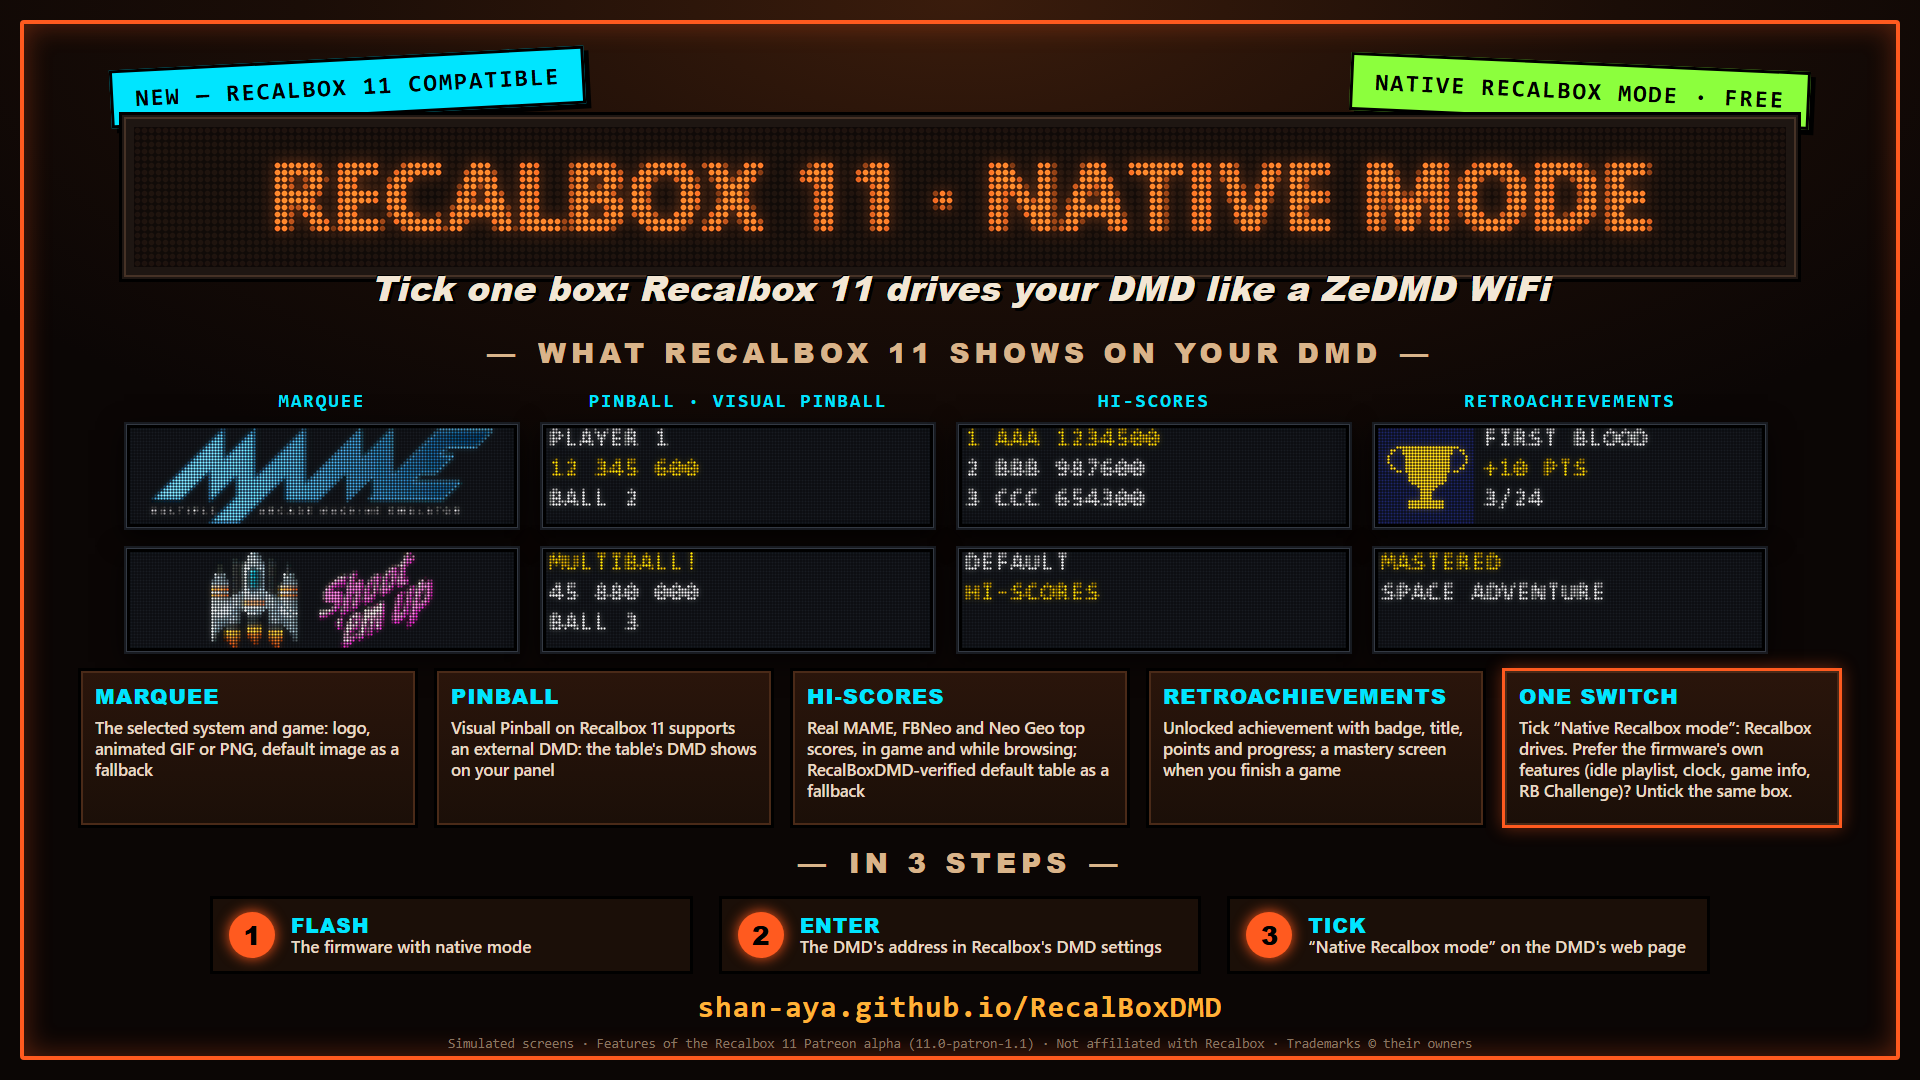
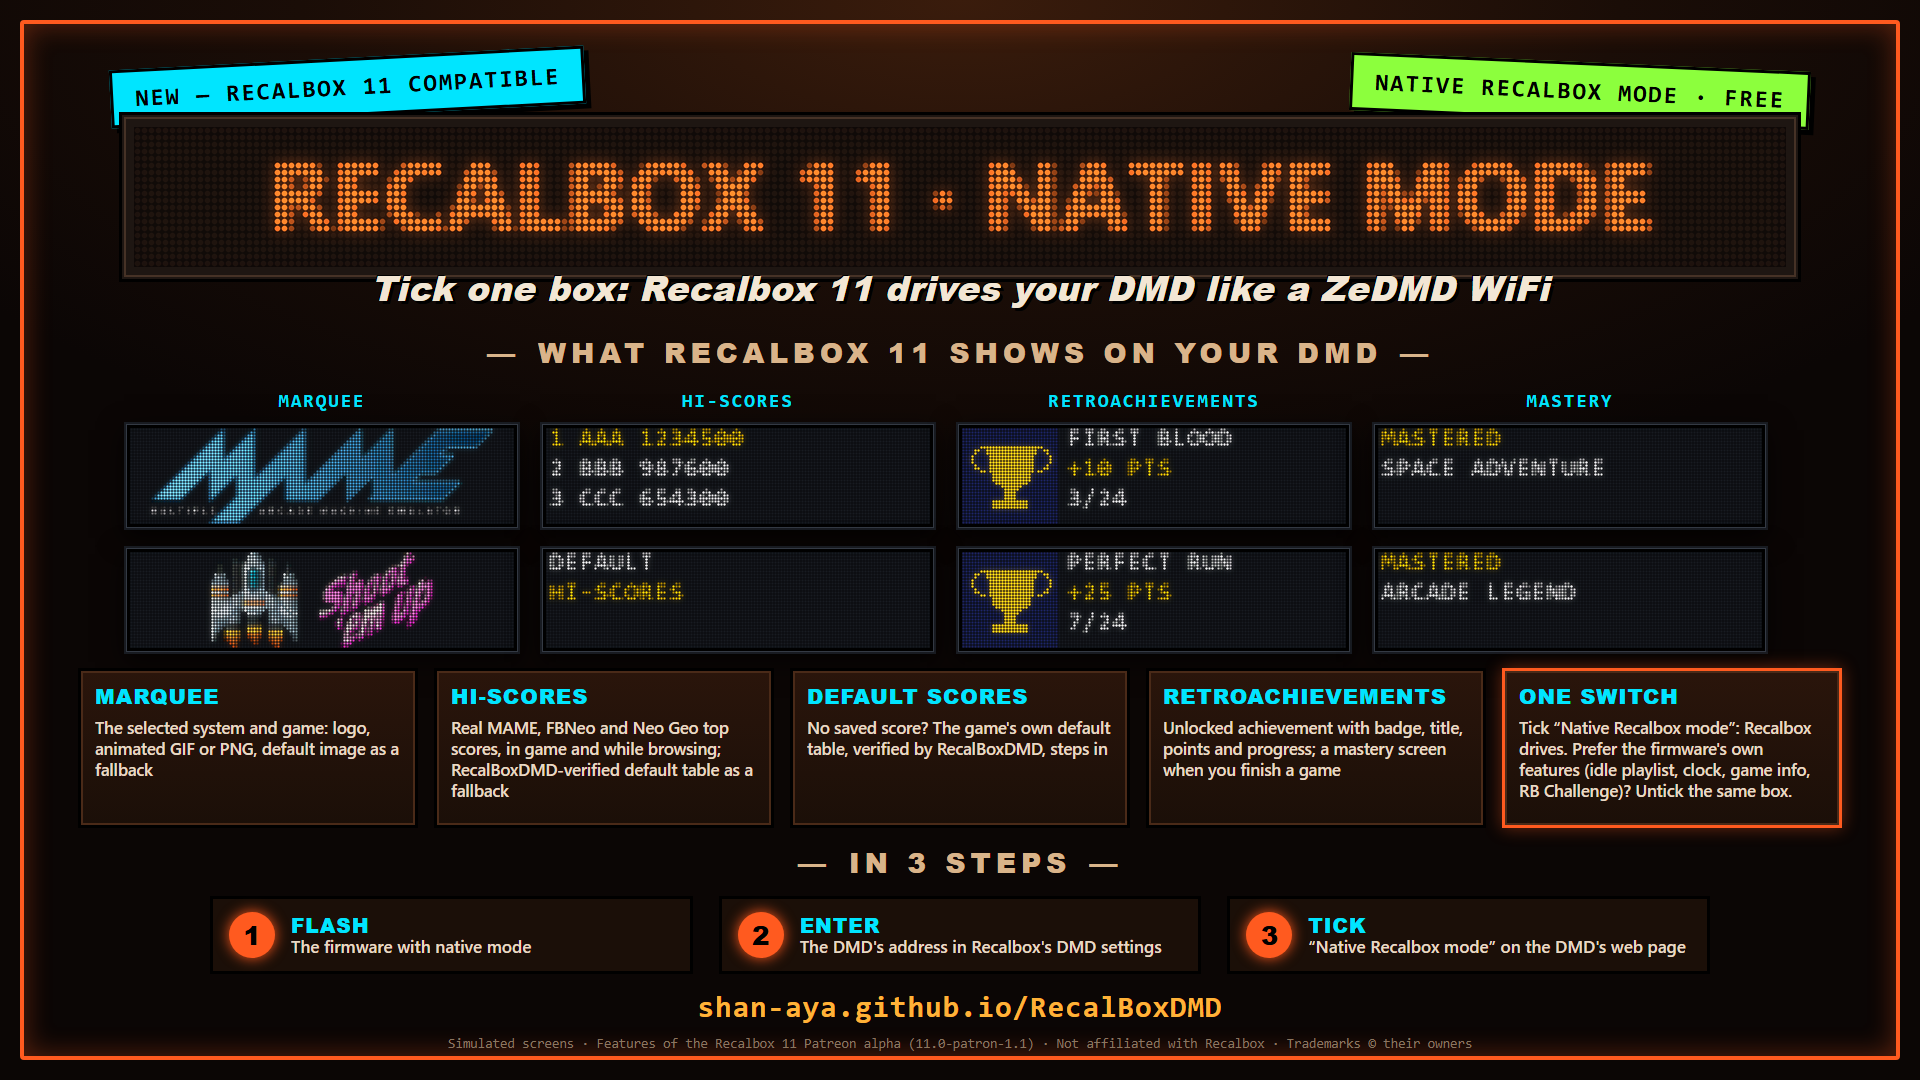
Page d'accueil + plaquette 7 : retrait de Visual Pinball (a tester en mode natif via ZeDMD), remplace par la maitrise RetroAchievements ; NON POUSSE

diff --git a/docs/index.html b/docs/index.html
@@ -543,19 +543,19 @@ footer.outro .support{margin-top:18px;font-size:15px}footer.outro .support a{col
         <figcaption data-i18n="cap.native1">Marquee du système et du jeu</figcaption>
       </figure>
       <figure class="shot glow-b">
-        <img src="media/native/pinball.png" data-i18n-alt="alt.native" alt="Écran simulé du panneau 128×32.">
-        <figcaption data-i18n="cap.native2">Table Visual Pinball</figcaption>
-      </figure>
-      <figure class="shot glow-b">
         <img src="media/native/hiscores.png" data-i18n-alt="alt.native" alt="Écran simulé du panneau 128×32.">
-        <figcaption data-i18n="cap.native3">Meilleurs scores</figcaption>
+        <figcaption data-i18n="cap.native2">Meilleurs scores</figcaption>
       </figure>
       <figure class="shot glow-b">
         <img src="media/native/achievement.png" data-i18n-alt="alt.native" alt="Écran simulé du panneau 128×32.">
-        <figcaption data-i18n="cap.native4">Succès RetroAchievements</figcaption>
+        <figcaption data-i18n="cap.native3">Succès RetroAchievements</figcaption>
+      </figure>
+      <figure class="shot glow-b">
+        <img src="media/native/mastery.png" data-i18n-alt="alt.native" alt="Écran simulé du panneau 128×32.">
+        <figcaption data-i18n="cap.native4">Maîtrise d'un jeu</figcaption>
       </figure>
     </div>
-    <p data-i18n="s5d.p2" style="margin-top:14px">Ce que Recalbox 11 y affiche : le marquee du système et du jeu sélectionnés (logo, GIF animé ou PNG) ; l'écran des tables Visual Pinball, grâce au DMD externe pris en charge ; les meilleurs scores des jeux d'arcade MAME, FBNeo et Neo Geo, par pages de trois, avec la table d'origine du jeu vérifiée par RecalBoxDMD quand aucun score n'est sauvegardé ; et les succès RetroAchievements (badge, titre, points, progression, écran de maîtrise).</p>
+    <p data-i18n="s5d.p2" style="margin-top:14px">Ce que Recalbox 11 y affiche : le marquee du système et du jeu sélectionnés (logo, GIF animé ou PNG) ; les meilleurs scores des jeux d'arcade MAME, FBNeo et Neo Geo, par pages de trois, avec la table d'origine du jeu vérifiée par RecalBoxDMD quand aucun score n'est sauvegardé ; et les succès RetroAchievements (badge, titre, points, progression, écran de maîtrise).</p>
     <p data-i18n="s5d.p3" style="margin-top:14px">Une seule case, dans les deux sens. Le mode natif remplace les fonctions propres du firmware ; si vous préférez les garder — playlist de veille en GIF, horloge à thèmes, fiches infos des jeux, RB Challenge, commandes par scripts — décochez simplement la même case : tout revient comme vous l'aviez réglé.</p>
     <p data-i18n="s5d.p4" style="margin-top:14px">Pour l'activer : 1. flashez le firmware avec le mode natif ; 2. dans Recalbox, renseignez l'adresse du DMD dans les réglages DMD (ZeDMD WiFi) — donnez une IP fixe à votre DMD pour qu'elle ne change pas ; 3. cochez « Mode Recalbox natif » dans la page web du DMD et redémarrez.</p>
     <p data-i18n="s5d.p5" style="opacity:.7;font-size:.9em;margin-top:14px">Hi-scores et RetroAchievements : fonctions de la Recalbox 11 alpha Patreon (11.0-patron-1.1). Écrans simulés d'après la mise en page de Recalbox 11.</p>
@@ -668,14 +668,14 @@ footer.outro .support{margin-top:18px;font-size:15px}footer.outro .support a{col
       "s5d.eyebrow": "Recalbox 11",
       "s5d.h2": "Prêt pour Recalbox 11 : le mode natif du firmware",
       "s5d.p1": "Recalbox 11 sait piloter lui-même un afficheur DMD, ZeDMD en USB ou en Wi-Fi compris. Le firmware du panneau sait s'y brancher : cochez « Mode Recalbox natif » dans la page web du panneau, et votre DMD se comporte comme un ZeDMD WiFi — c'est Recalbox qui décide de tout ce qui s'affiche.",
-      "s5d.p2": "Ce que Recalbox 11 y affiche : le marquee du système et du jeu sélectionnés (logo, GIF animé ou PNG) ; l'écran des tables Visual Pinball, grâce au DMD externe pris en charge ; les meilleurs scores des jeux d'arcade MAME, FBNeo et Neo Geo, par pages de trois, avec la table d'origine du jeu vérifiée par RecalBoxDMD quand aucun score n'est sauvegardé ; et les succès RetroAchievements (badge, titre, points, progression, écran de maîtrise).",
+      "s5d.p2": "Ce que Recalbox 11 y affiche : le marquee du système et du jeu sélectionnés (logo, GIF animé ou PNG) ; les meilleurs scores des jeux d'arcade MAME, FBNeo et Neo Geo, par pages de trois, avec la table d'origine du jeu vérifiée par RecalBoxDMD quand aucun score n'est sauvegardé ; et les succès RetroAchievements (badge, titre, points, progression, écran de maîtrise).",
       "s5d.p3": "Une seule case, dans les deux sens. Le mode natif remplace les fonctions propres du firmware ; si vous préférez les garder — playlist de veille en GIF, horloge à thèmes, fiches infos des jeux, RB Challenge, commandes par scripts — décochez simplement la même case : tout revient comme vous l'aviez réglé.",
       "s5d.p4": "Pour l'activer : 1. flashez le firmware avec le mode natif ; 2. dans Recalbox, renseignez l'adresse du DMD dans les réglages DMD (ZeDMD WiFi) — donnez une IP fixe à votre DMD pour qu'elle ne change pas ; 3. cochez « Mode Recalbox natif » dans la page web du DMD et redémarrez.",
       "s5d.p5": "Hi-scores et RetroAchievements : fonctions de la Recalbox 11 alpha Patreon (11.0-patron-1.1). Écrans simulés d'après la mise en page de Recalbox 11.",
       "cap.native1": "Marquee du système et du jeu",
-      "cap.native2": "Table Visual Pinball",
-      "cap.native3": "Meilleurs scores",
-      "cap.native4": "Succès RetroAchievements",
+      "cap.native2": "Meilleurs scores",
+      "cap.native3": "Succès RetroAchievements",
+      "cap.native4": "Maîtrise d'un jeu",
       "alt.native": "Écran simulé du panneau 128×32.",
       "cap.marqueehiscore": "Marquee + Hi-Score", "cap.infosjeu": "Fiche du jeu", "cap.shuffle": "Navigation rapide", "cap.challenge": "Challenge RB",
       "s5b.eyebrow": "Visual Pinball", "s5b.h2": "Vos flippers virtuels s'affichent aussi sur le DMD", "s5b.p": "Lancez une table Visual Pinball depuis votre Recalbox : le DMD affiche en direct l'écran de la table, comme un vrai afficheur de flipper — puis reprend tout seul son marquee habituel à la fin de la partie. Sans redémarrage, activable d'un simple interrupteur dans la page web du panneau. Les tables colorisées (Serum) s'affichent en couleur, les autres gardent le rendu monochrome classique.", "cap.vpinballcolor": "Table colorisée (Serum) — AC/DC, en attente puis en jeu", "cap.vpinballmono": "Rendu classique monochrome — Indiana Jones Pinball Adventure, en attente puis en jeu",
@@ -747,14 +747,14 @@ footer.outro .support{margin-top:18px;font-size:15px}footer.outro .support a{col
       "s5d.eyebrow": "Recalbox 11",
       "s5d.h2": "Ready for Recalbox 11: the firmware's native mode",
       "s5d.p1": "Recalbox 11 can drive a DMD display by itself, ZeDMD over USB or Wi-Fi included. The panel's firmware knows how to plug into it: tick “Native Recalbox mode” on the panel's web page and your DMD behaves like a ZeDMD WiFi — Recalbox decides everything that is shown.",
-      "s5d.p2": "What Recalbox 11 shows on it: the marquee of the selected system and game (logo, animated GIF or PNG); the screen of Visual Pinball tables, thanks to the supported external DMD; the top scores of MAME, FBNeo and Neo Geo arcade games, in pages of three, with the game's default table verified by RecalBoxDMD when no score is saved; and RetroAchievements unlocks (badge, title, points, progress, mastery screen).",
+      "s5d.p2": "What Recalbox 11 shows on it: the marquee of the selected system and game (logo, animated GIF or PNG); the top scores of MAME, FBNeo and Neo Geo arcade games, in pages of three, with the game's default table verified by RecalBoxDMD when no score is saved; and RetroAchievements unlocks (badge, title, points, progress, mastery screen).",
       "s5d.p3": "One box, both ways. Native mode replaces the firmware's own features; if you'd rather keep them — idle GIF playlist, themed clock, game info screens, RB Challenge, script commands — just untick the same box: everything comes back as you had set it.",
       "s5d.p4": "To turn it on: 1. flash the firmware with native mode; 2. in Recalbox, enter the DMD's address in the DMD settings (ZeDMD WiFi) — give your DMD a fixed IP so it doesn't change; 3. tick “Native Recalbox mode” on the DMD's web page and reboot.",
       "s5d.p5": "Hi-scores and RetroAchievements: features of the Recalbox 11 Patreon alpha (11.0-patron-1.1). Screens simulated after Recalbox 11's layout.",
       "cap.native1": "System and game marquee",
-      "cap.native2": "Visual Pinball table",
-      "cap.native3": "Top scores",
-      "cap.native4": "RetroAchievements unlock",
+      "cap.native2": "Top scores",
+      "cap.native3": "RetroAchievements unlock",
+      "cap.native4": "Game mastery",
       "alt.native": "Simulated 128×32 panel screen.",
       "cap.marqueehiscore": "Marquee + Hi-Score", "cap.infosjeu": "Game info", "cap.shuffle": "Fast scroll", "cap.challenge": "RB Challenge",
       "s5b.eyebrow": "Visual Pinball", "s5b.h2": "Your virtual pinball tables show up on the DMD too", "s5b.p": "Launch a Visual Pinball table from your Recalbox: the DMD shows the table's screen live, like a real pinball display — then goes back to its usual marquee by itself when the game ends. No reboot, enabled with a single switch in the panel's web page. Colorized (Serum) tables show in color; the others keep the classic monochrome look.", "cap.vpinballcolor": "Colorized table (Serum) — AC/DC, idle then in play", "cap.vpinballmono": "Classic monochrome look — Indiana Jones Pinball Adventure, idle then in play",
@@ -826,14 +826,14 @@ footer.outro .support{margin-top:18px;font-size:15px}footer.outro .support a{col
       "s5d.eyebrow": "Recalbox 11",
       "s5d.h2": "Listo para Recalbox 11: el modo nativo del firmware",
       "s5d.p1": "Recalbox 11 sabe manejar por sí mismo una pantalla DMD, ZeDMD por USB o Wi-Fi incluido. El firmware del panel sabe conectarse a él: marca «Modo Recalbox nativo» en la página web del panel y tu DMD se comporta como un ZeDMD WiFi — Recalbox decide todo lo que se muestra.",
-      "s5d.p2": "Lo que Recalbox 11 muestra en él: el marquee del sistema y del juego seleccionados (logo, GIF animado o PNG); la pantalla de las mesas de Visual Pinball, gracias al DMD externo admitido; las mejores puntuaciones de los juegos de arcade MAME, FBNeo y Neo Geo, en páginas de tres, con la tabla de origen del juego verificada por RecalBoxDMD cuando no hay ninguna puntuación guardada; y los logros de RetroAchievements (insignia, título, puntos, progreso, pantalla de maestría).",
+      "s5d.p2": "Lo que Recalbox 11 muestra en él: el marquee del sistema y del juego seleccionados (logo, GIF animado o PNG); las mejores puntuaciones de los juegos de arcade MAME, FBNeo y Neo Geo, en páginas de tres, con la tabla de origen del juego verificada por RecalBoxDMD cuando no hay ninguna puntuación guardada; y los logros de RetroAchievements (insignia, título, puntos, progreso, pantalla de maestría).",
       "s5d.p3": "Una sola casilla, en los dos sentidos. El modo nativo sustituye las funciones propias del firmware; si prefieres conservarlas — playlist de espera en GIF, reloj con temas, fichas de información de los juegos, RB Challenge, comandos por scripts — desmarca simplemente la misma casilla: todo vuelve como lo habías configurado.",
       "s5d.p4": "Para activarlo: 1. flashea el firmware con modo nativo; 2. en Recalbox, indica la dirección del DMD en los ajustes DMD (ZeDMD WiFi) — dale una IP fija a tu DMD para que no cambie; 3. marca «Modo Recalbox nativo» en la página web del DMD y reinicia.",
       "s5d.p5": "Hi-scores y RetroAchievements: funciones de la Recalbox 11 alfa Patreon (11.0-patron-1.1). Pantallas simuladas según el diseño de Recalbox 11.",
       "cap.native1": "Marquee del sistema y del juego",
-      "cap.native2": "Mesa de Visual Pinball",
-      "cap.native3": "Mejores puntuaciones",
-      "cap.native4": "Logro de RetroAchievements",
+      "cap.native2": "Mejores puntuaciones",
+      "cap.native3": "Logro de RetroAchievements",
+      "cap.native4": "Maestría de un juego",
       "alt.native": "Pantalla simulada del panel 128×32.",
       "cap.marqueehiscore": "Marquee + Hi-Score", "cap.infosjeu": "Ficha del juego", "cap.shuffle": "Navegación rápida", "cap.challenge": "Challenge RB",
       "s5b.eyebrow": "Visual Pinball", "s5b.h2": "Tus mesas de pinball virtual también se muestran en el DMD", "s5b.p": "Lanza una mesa de Visual Pinball desde tu Recalbox: el DMD muestra en directo la pantalla de la mesa, como un verdadero display de pinball — y vuelve solo a su marquee habitual al terminar la partida. Sin reinicio, se activa con un simple interruptor en la página web del panel. Las mesas coloreadas (Serum) se ven en color; las demás conservan el aspecto monocromo clásico.", "cap.vpinballcolor": "Mesa coloreada (Serum) — AC/DC, en reposo y en juego", "cap.vpinballmono": "Aspecto monocromo clásico — Indiana Jones Pinball Adventure, en reposo y en juego",
